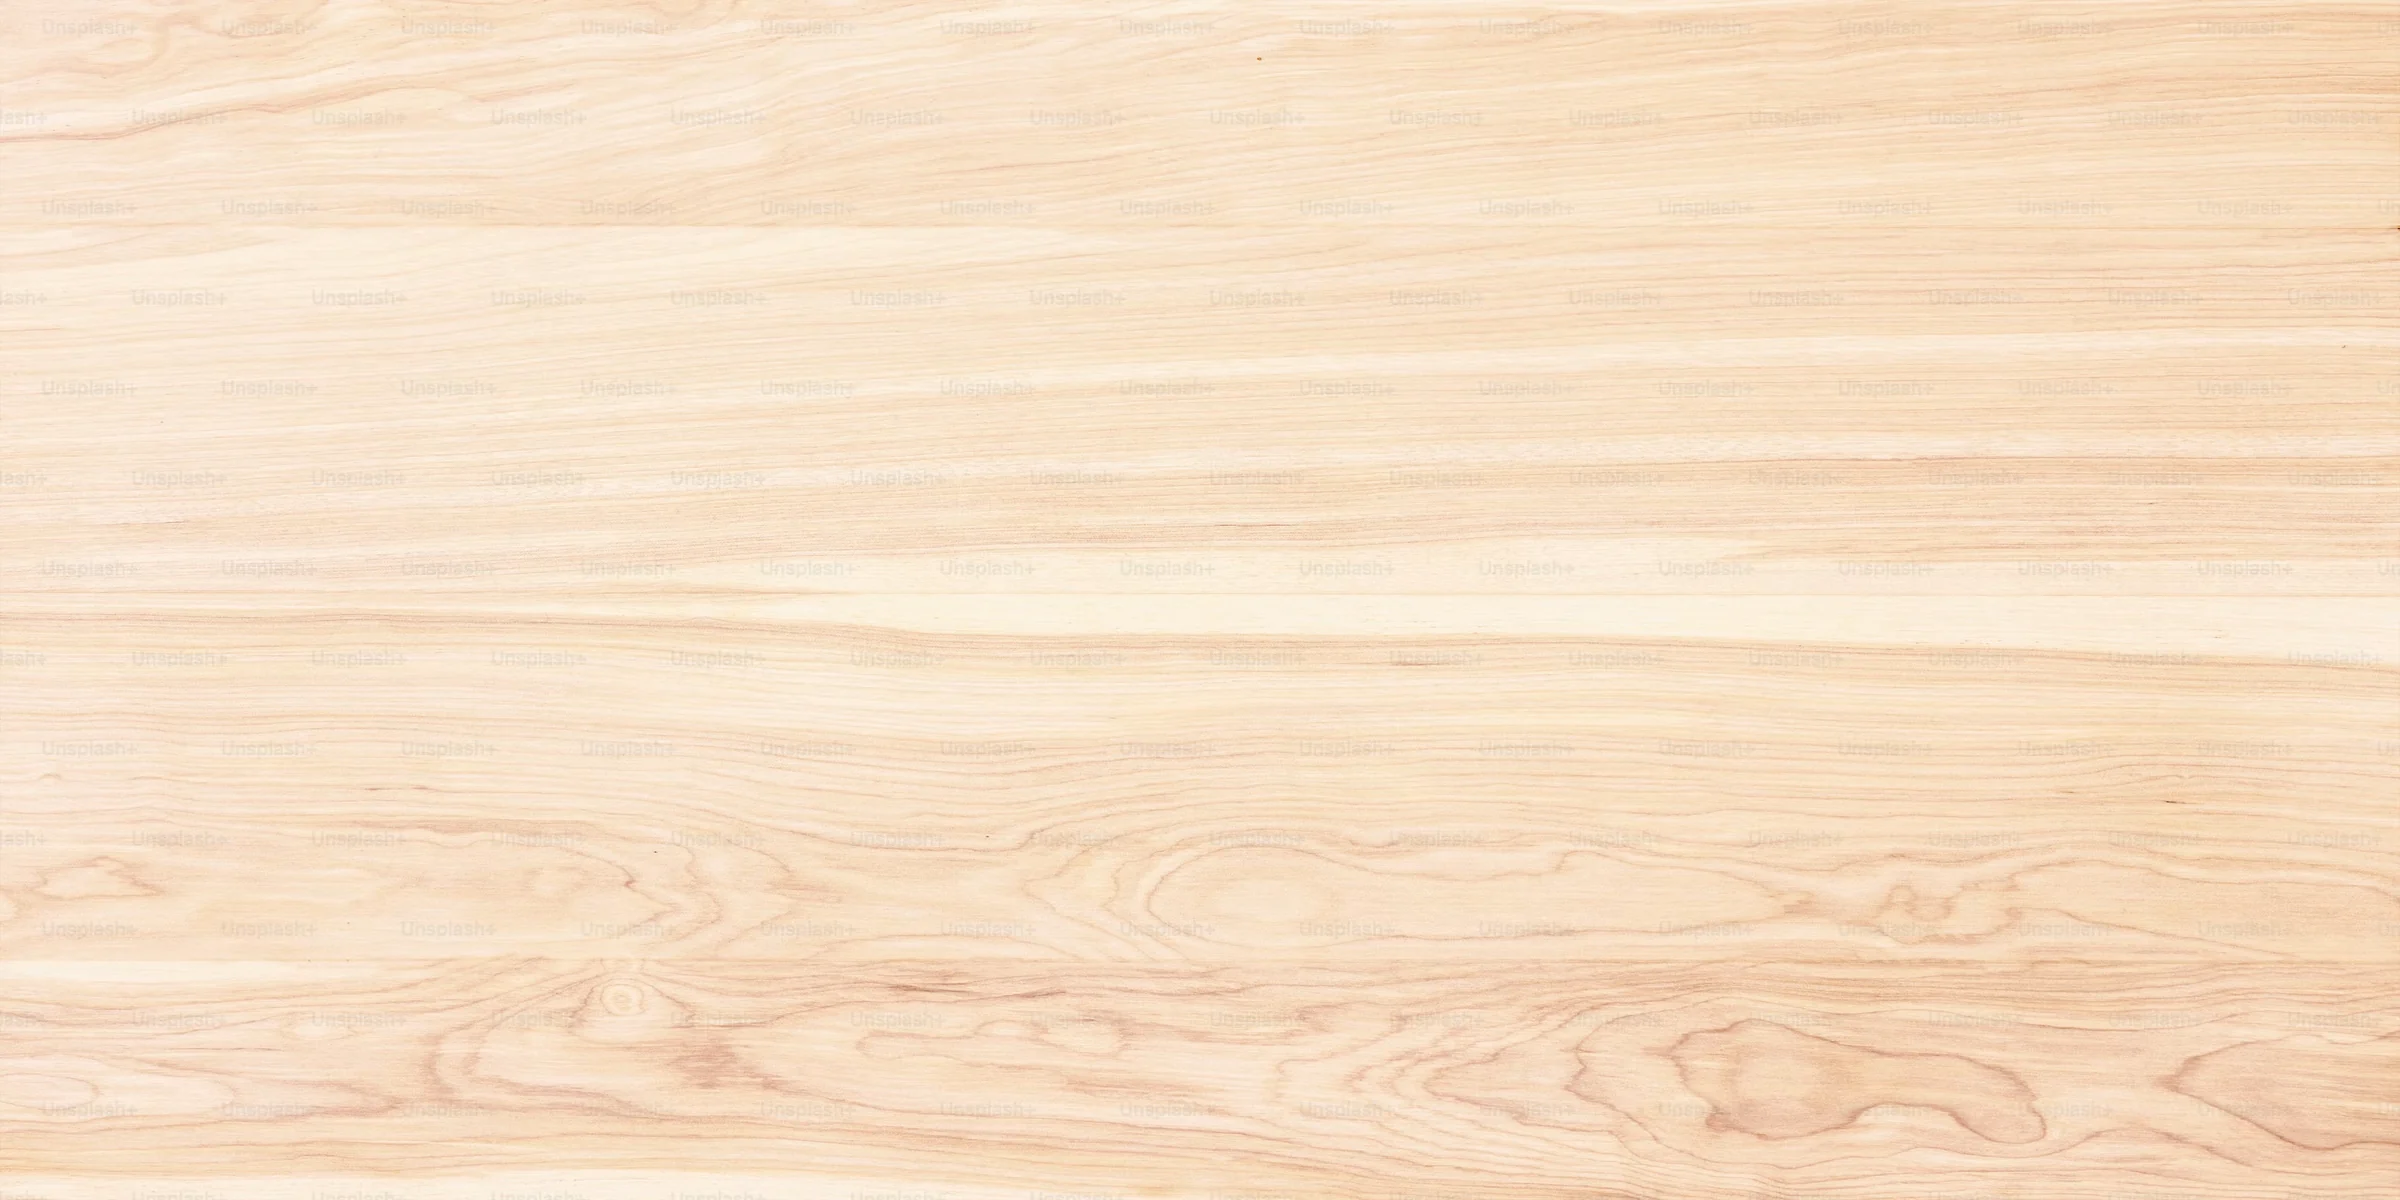
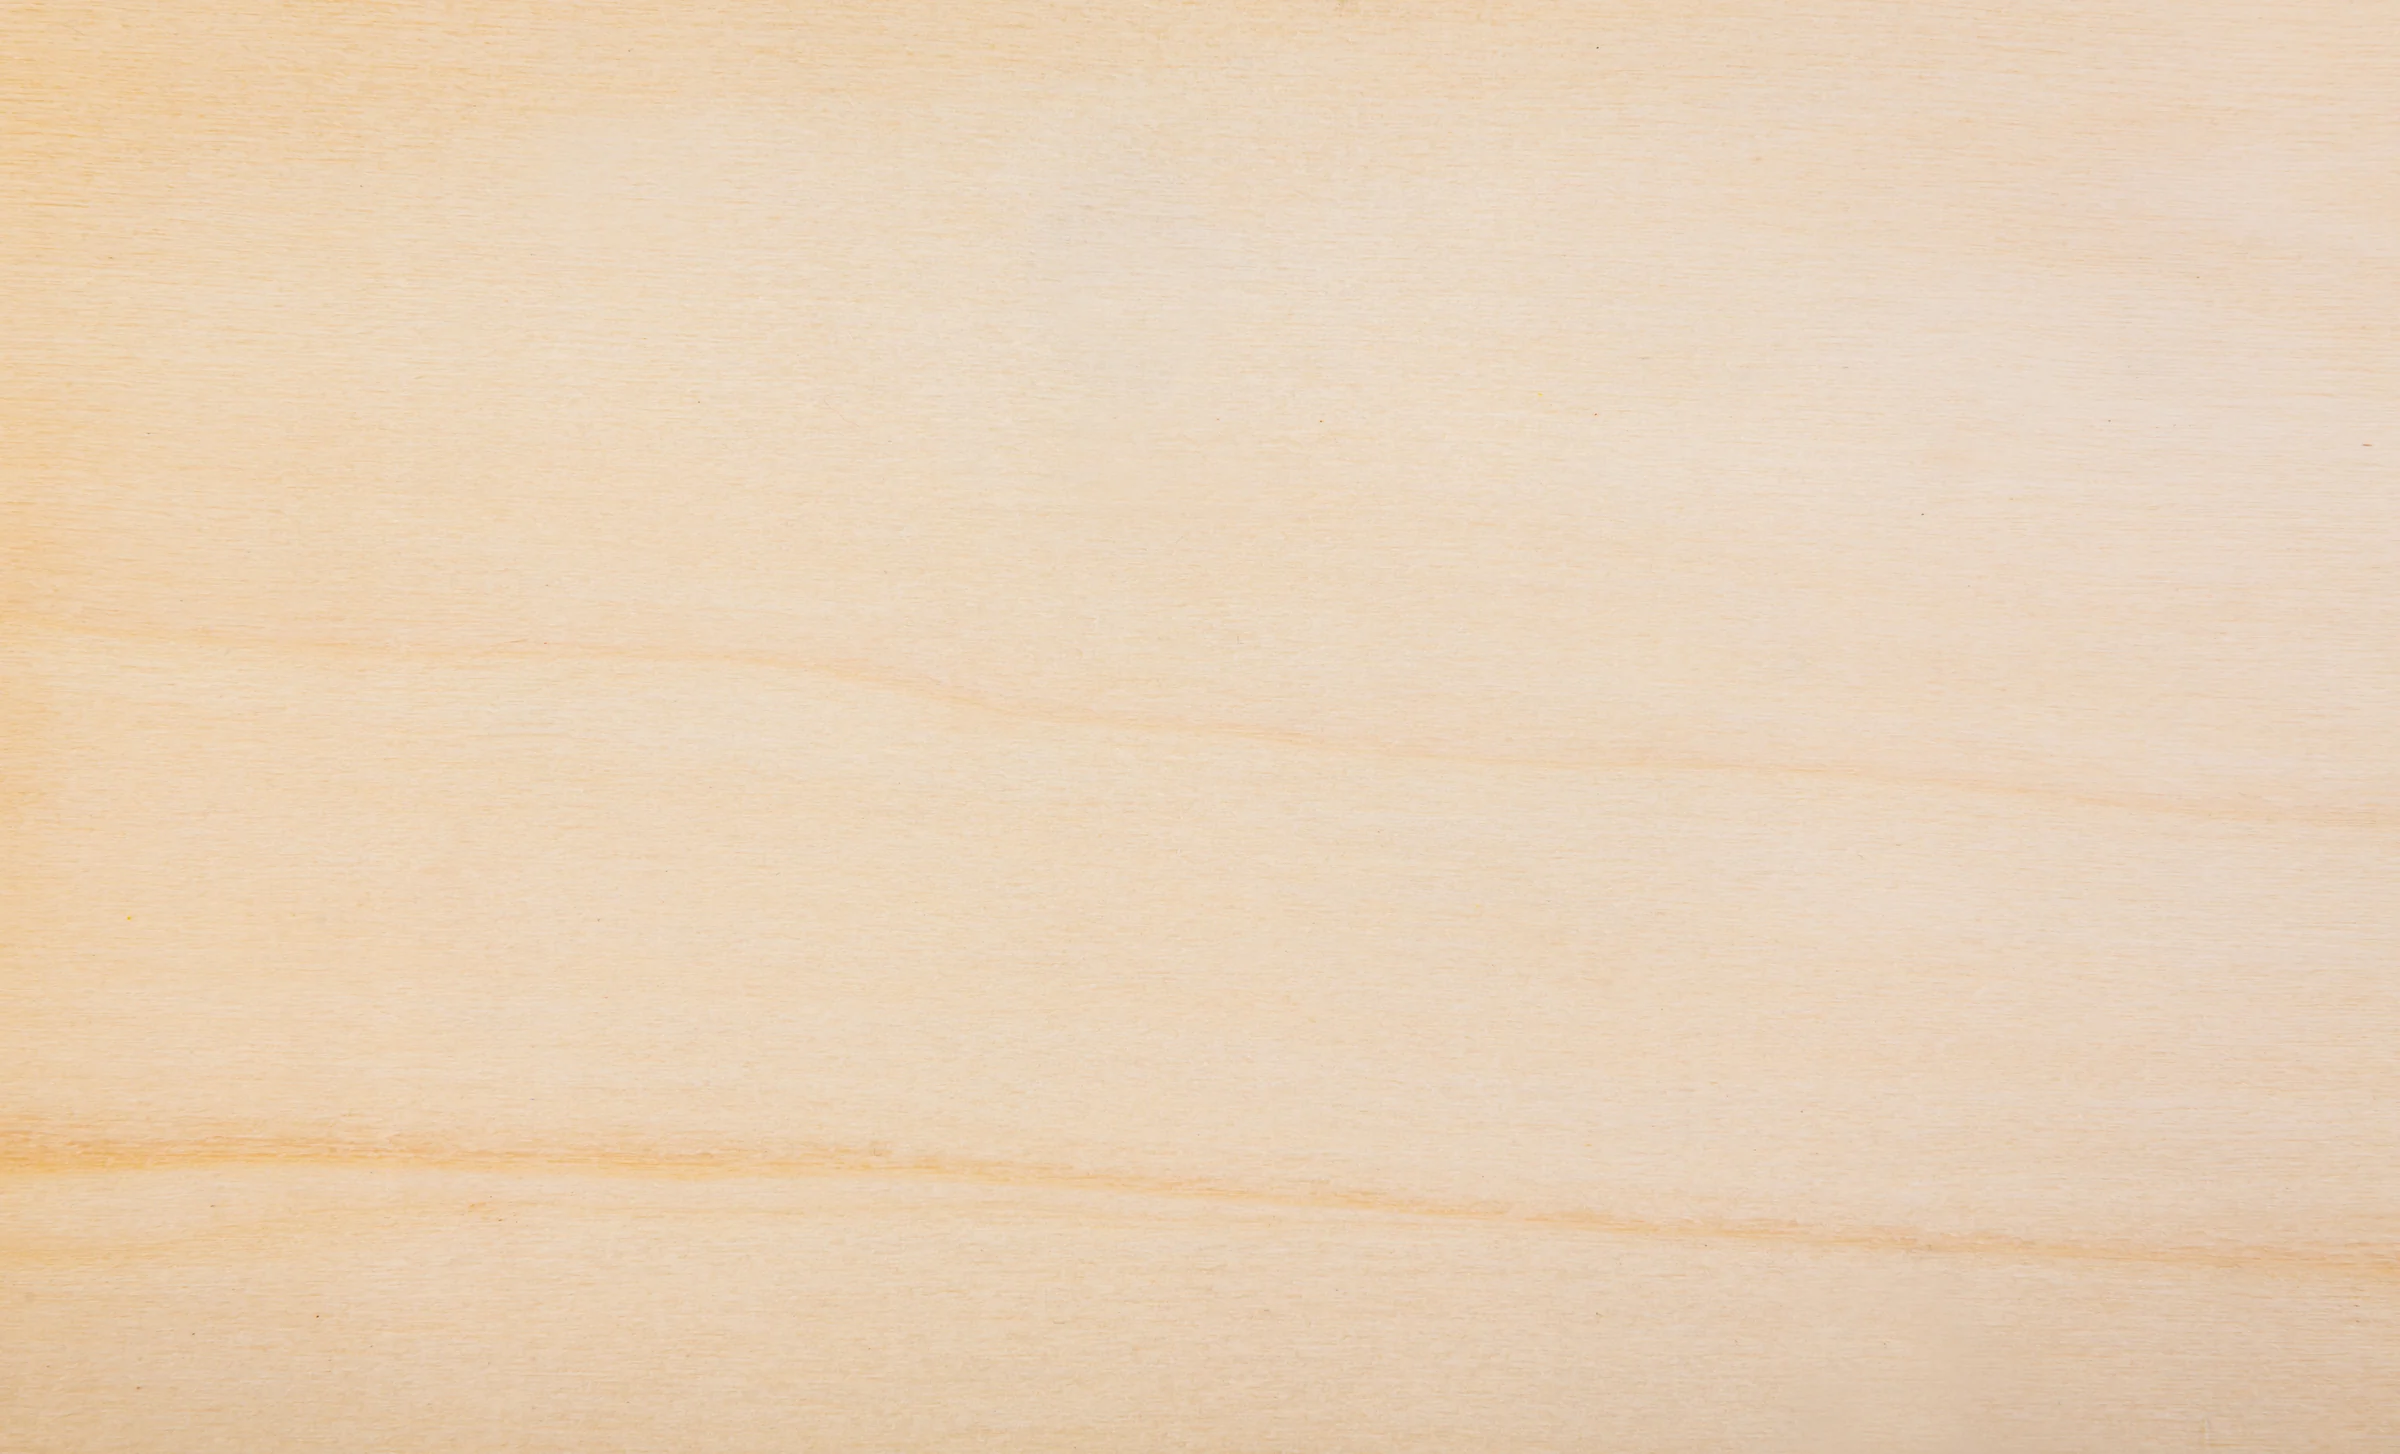
A desk that can actually ship
texture-wooden-surface replaces the Unsplash+ preview. 5379px at source
against 3260, and no watermark — the first desk here that is neither a
stock comp nor scaled past what it has. Ships at 2400 wide, 197KB.

diff --git a/src/app/lab/desk.css b/src/app/lab/desk.css
@@ -34,12 +34,8 @@ html.desk-locked body {
    * The wood, covering the viewport, so it runs past every edge on its own
    * and widening the window reveals more of it.
    *
-   * UNLICENSED. desk.webp is the Unsplash+ preview of
-   * premium_photo-1756717262701-17032ad7a128, and the "Unsplash+" watermark is
-   * tiled across the whole frame — not a band, the whole thing. It is here so
-   * the composition can be judged against the right wood; it cannot ship.
-   * Replace with the licensed download, which has no watermark and needs no
-   * other change.
+   * texture-wooden-surface, 5379px at source and unwatermarked — the first
+   * desk here that is neither a stock comp nor scaled past what it has.
    */
   background: #2b1d12 url("/desk/desk.webp") center / cover no-repeat;
 }
